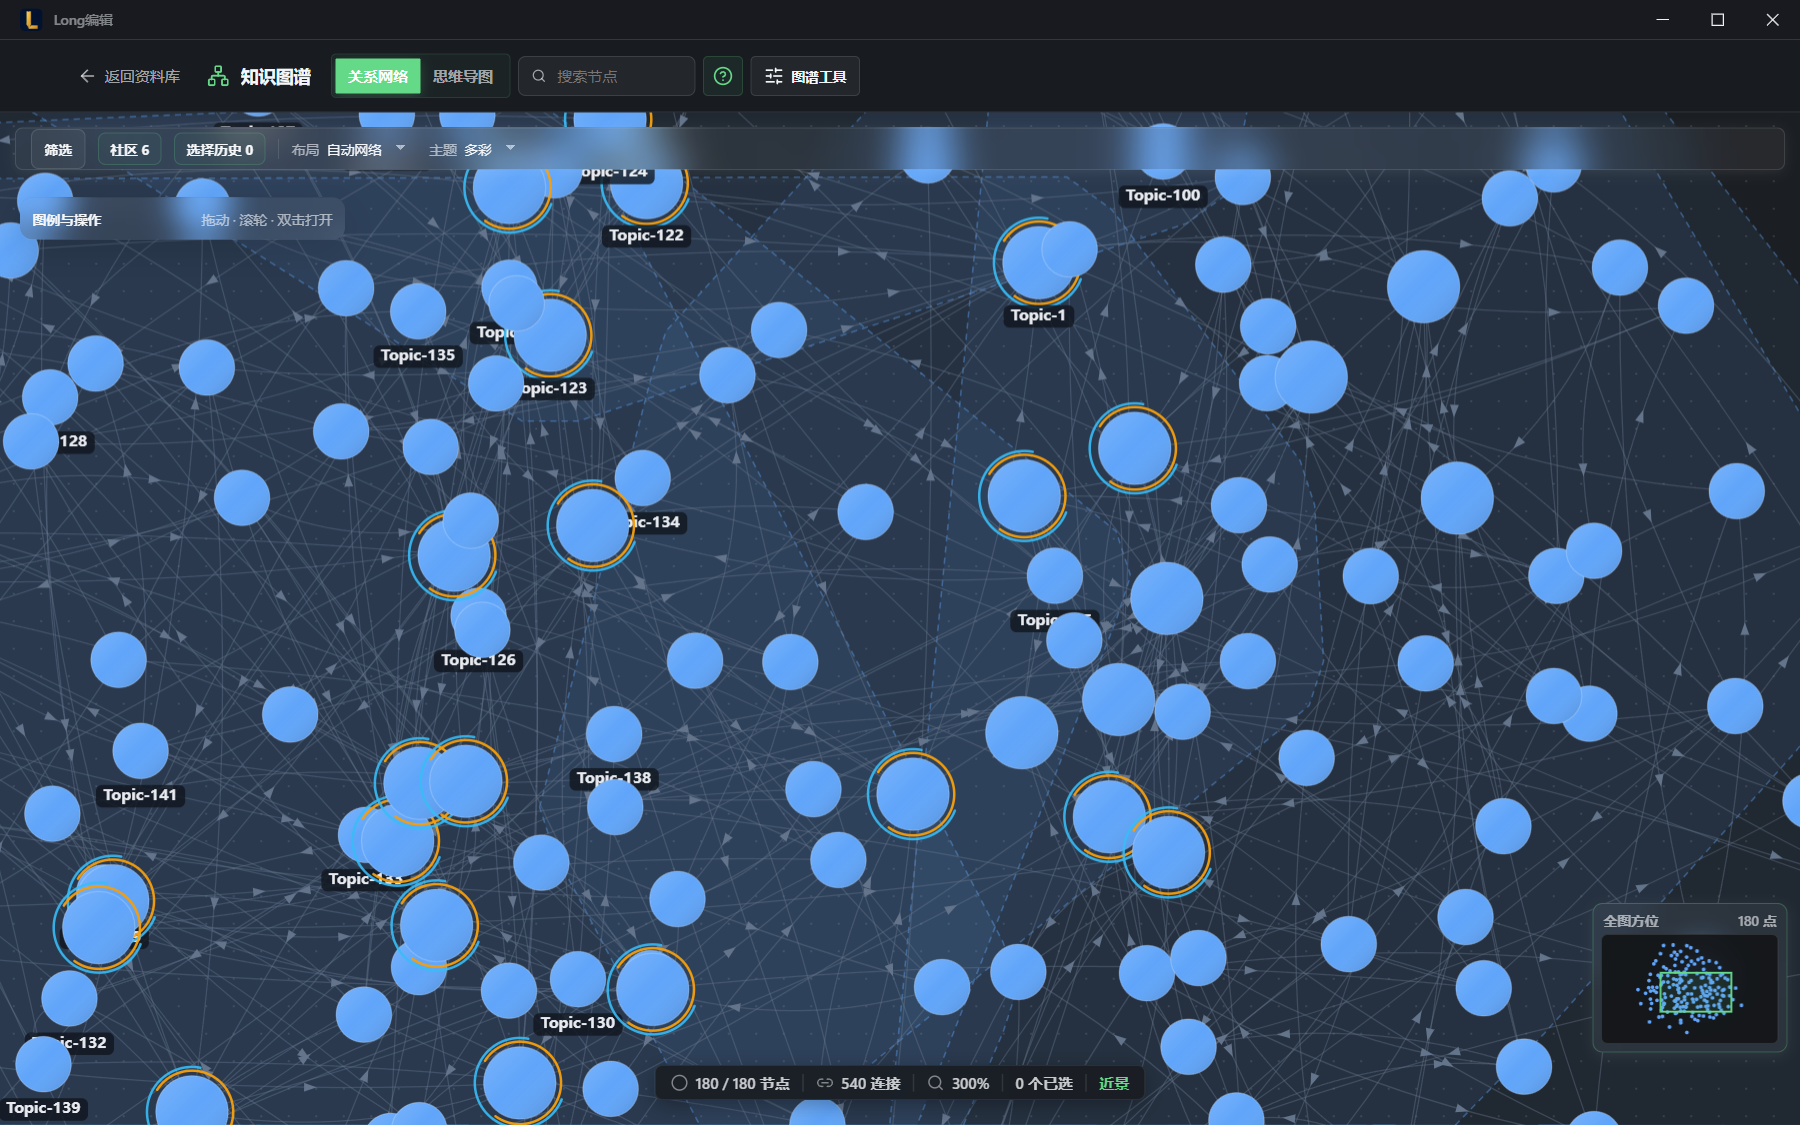
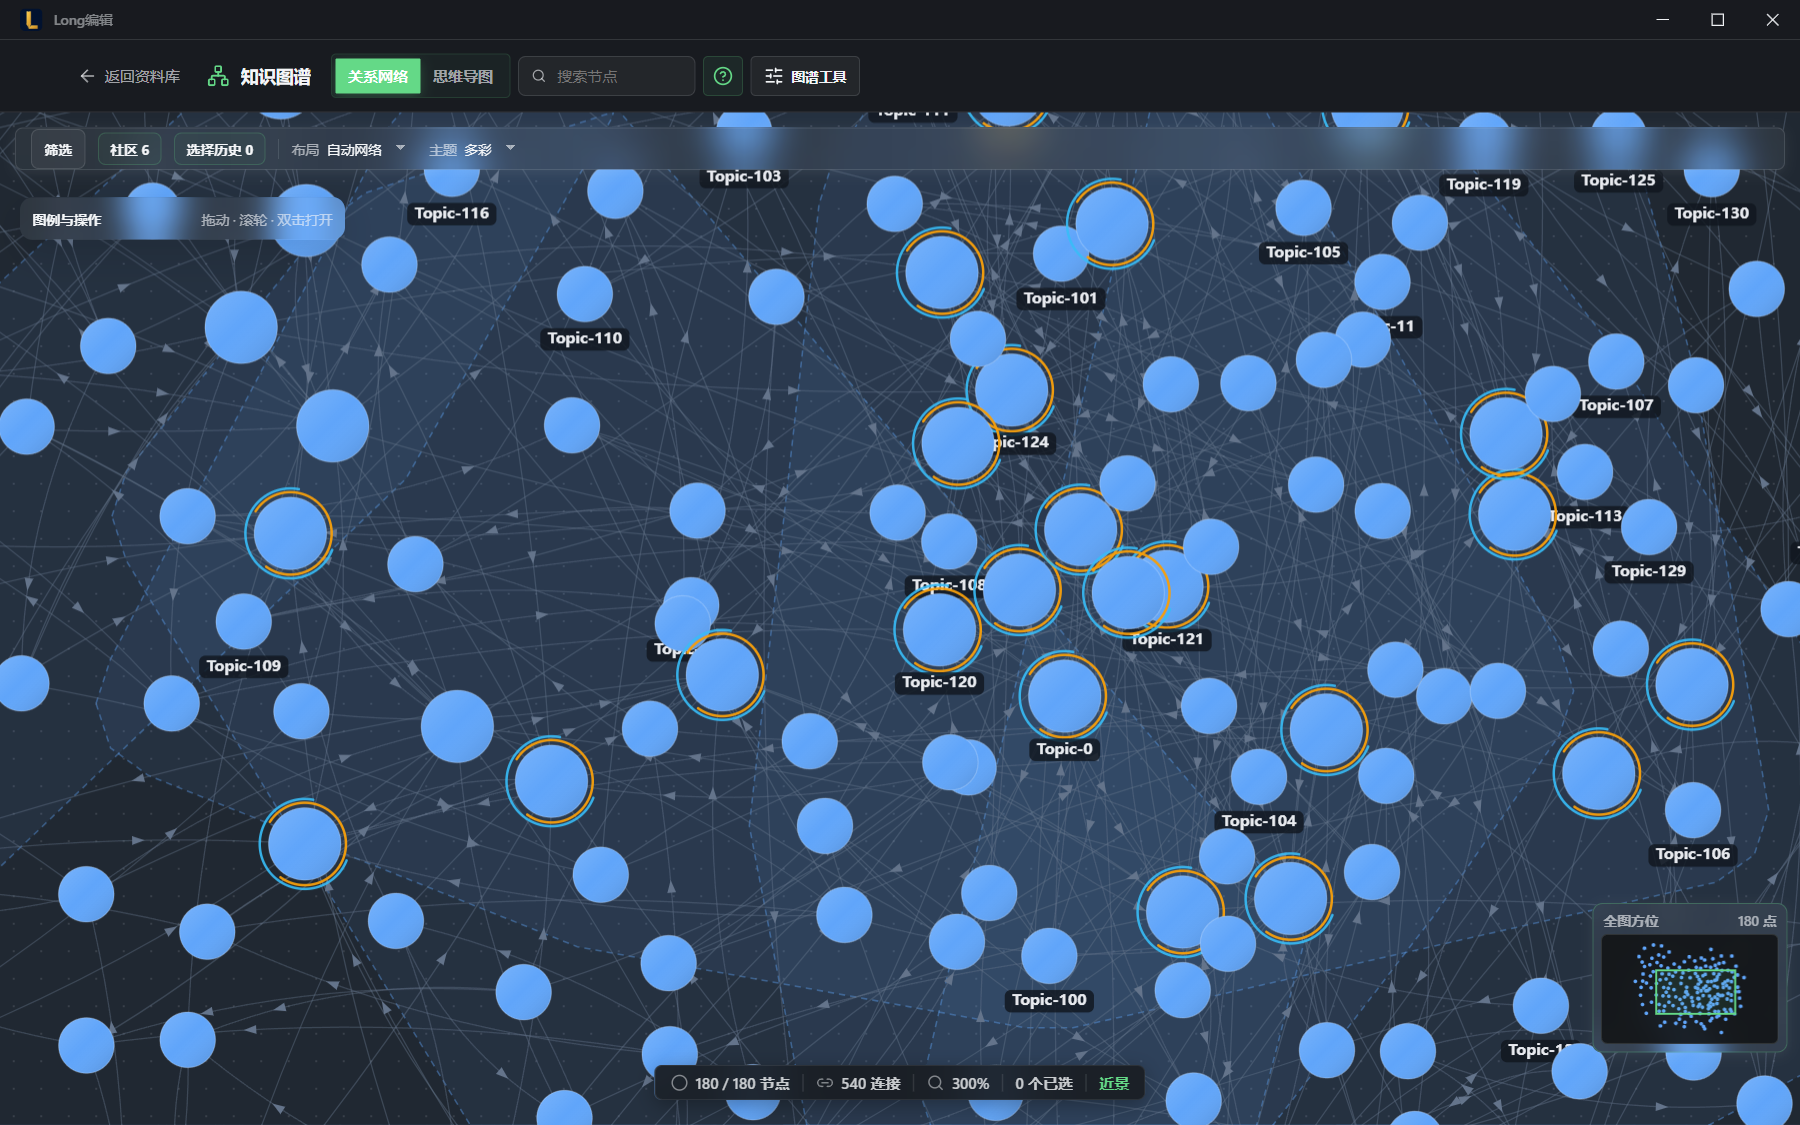
docs: record v1.0.20 cross-machine handoff

diff --git a/docs/Post_v1.0.19_M8_4_v1.0.20_Cross_Machine_Handoff_Audit_2026-09-01.md b/docs/Post_v1.0.19_M8_4_v1.0.20_Cross_Machine_Handoff_Audit_2026-09-01.md
@@ -1,0 +1,79 @@
+# M8-4 / v1.0.20 跨电脑接续审计
+
+日期：2026-09-01
+
+暂停结论：**知识图谱产品修复与 v1.0.20 原子版本迁移已完成，最终产品候选已冻结；公开发布链主动暂停，尚未构建或发布 v1.0.20。**
+
+## 1. 当前事实
+
+- 分支：`main`
+- 冻结产品候选：`654ae5aa4c08e60c9fd5b91811cc938f91e0c3c2`
+- 当前运行时/开发目标：`1.0.20`
+- 当前公开稳定版：`1.0.19`，Tag 为 `v1.0.19`
+- 发布状态：`v1.0.20-community-release-quality-gate-pending`
+- `releaseCandidate=false`；不存在 v1.0.20 Tag、GitHub Release 或对外下载附件。
+- 候选工作流：`.github/workflows/v120-candidate-lifecycle.yml`，只能接收精确 40 位候选提交，升级基线固定为 `v1.0.19`。
+
+## 2. 已完成的开发
+
+1. M8-1 修复分数 DPR 下 Canvas 尺寸抖动、pointer capture 拖动、单击选择/双击打开分离、左上角筛选与图例叠压、大量孤立节点远景噪声。
+2. M8-2 使用真实 Windows/Tauri 和用户问题对应的大资料库规模验证 540 个孤立节点场景。
+3. M8-3 完成连接图视口裁剪、`Set` 选中查找、状态环最多 24 个、屏幕恒定标签与碰撞规避、平方根近景尺寸、克制节点材质、默认零选择和统一“图谱工具”入口。
+4. M8-4 已把 package/Cargo/Tauri 及 37 项活动发布合同原子同步到 1.0.20，并把旧 M4～M7 审计合同扩展为可识别合法 M8 后继阶段；历史功能断言仍保留。
+5. README 及 v1.0.20 Release Notes 已写入“准备中”事实，尚未改成已发布下载页。
+
+关键提交：
+
+- `e8e8a795`：密集图交互稳定性与首轮可用性修复。
+- `cfc41699`：M8 真实可用性审计与接续点。
+- `db454f8d`：连接图性能、标签、节点视觉与工具入口重构。
+- `bae8f4e2`：紧凑工具栏与主题合同对齐。
+- `654ae5aa`：v1.0.20 原子版本、候选工作流、发布前文档及后继审计兼容。
+
+## 3. 最终真实观察与质量结果
+
+最终候选 `654ae5aa…` 已在 Windows/Tauri/WebView2、1440×900、DPR 1.25、暗色主题下复跑 180 节点/540 连接图：
+
+- Canvas draw 峰值：`4.5 ms`；修复前同基线为 `7.1 ms`，下降约 37%。
+- 超过 50 ms 的 Canvas draw：`0`。
+- 布局 Worker compute 峰值：`1.6 ms`；apply 峰值：`0.7 ms`。
+- 默认选中节点：`0`；运行时错误：`0`。
+- 工具弹层：248 px、13 个命令、全部单行。
+- 全图、300% 近景与工具弹层三张截图均已人工复核；证据位于 `docs/evidence/post-v119-m8-3-connected-graph-after/`。
+
+质量门实际结果：
+
+- `npm run check:current-development-audit`：完整通过。
+- `npm run build`：通过，6,276 modules transformed。
+- `cargo check --locked --manifest-path src-tauri/Cargo.toml`：通过。
+- `ci:patch-release` 中所有本地构建、静态合同、历史能力审计和 Rust 检查均通过。
+- 最后一步 `npm audit --omit=dev` 两次因 `registry.npmjs.org` 在 TLS 建连前断开而未取得审计结果；这是当前唯一未闭合的质量门，不能记录成“0 vulnerabilities”。换机后必须在网络正常环境重跑，托管候选工作流也会从固定提交重新执行完整门禁。
+
+## 4. 尚未执行的发布工作
+
+以下工作全部为待办，不能从 v1.0.19 继承证据：
+
+1. 在网络正常环境完成 `npm audit --omit=dev`，并从头通过 `npm run ci:patch-release`。
+2. 推送后以候选 `654ae5aa4c08e60c9fd5b91811cc938f91e0c3c2` 调度 `v120-candidate-lifecycle.yml`。
+3. GitHub Windows runner 构建 1.0.20 MSI/NSIS，并完成 22/22 安装生命周期、18/18 安装态检查、11/11 路由、7/7 管理回滚。
+4. 下载托管制品，冻结 ASCII 公共文件名、大小、SHA-256、`artifact-manifest.json` 和 `SHA256SUMS.txt`。
+5. 把社区发布策略推进到发布就绪；将 README/Release Notes 从“准备中”更新为真实制品事实。
+6. 创建指向冻结产品候选的 annotated `v1.0.20` Tag，发布 GitHub Release 和 MSI、NSIS、SHA256SUMS 三个附件。
+7. 从公开地址回下载三项附件并逐项复核大小与 SHA-256；随后另行观察官方 v1.0.19 → v1.0.20 应用内更新。
+
+## 5. 换机接续顺序
+
+```powershell
+git pull --ff-only origin main
+git status --short
+npm ci
+npm audit --omit=dev --registry=https://registry.npmjs.org
+npm run ci:patch-release
+gh workflow run v120-candidate-lifecycle.yml --ref main -f candidate_commit=654ae5aa4c08e60c9fd5b91811cc938f91e0c3c2
+```
+
+调度后应使用 `gh run list --workflow v120-candidate-lifecycle.yml` 获取 Run ID，并等待成功证据；失败时先保留运行日志，不得直接 Tag 或发布。候选产品提交固定为 `654ae5aa…`，后续仅文档/证据提交不得悄然替换候选代码身份。
+
+## 6. 隐私与发布边界
+
+仓库证据使用合成 Markdown 节点，不包含用户资料库正文或本地绝对路径。v1.0.20 仍为无 Authenticode 签名的社区通道，未来发布时必须保留 Windows 未知发布者提示、仅从官方 GitHub 下载以及 SHA-256 校验说明。

diff --git a/docs/Development_Alignment_and_Closure_Plan_2026-08-02.md b/docs/Development_Alignment_and_Closure_Plan_2026-08-02.md
@@ -6,6 +6,8 @@
 当前公开版本：`1.0.19`
 当前阶段：**M8-4 v1.0.20 质量门、版本迁移与发布**
 
+暂停接续说明（2026-09-01）：v1.0.20 产品候选已冻结为 `654ae5aa4c08e60c9fd5b91811cc938f91e0c3c2`，最终真实 Tauri 复跑通过；当前因换机主动停在托管发布前。公开版仍为 v1.0.19，v1.0.20 MSI/NSIS、安装生命周期、Tag 与 Release 均未执行；本地 `npm audit` 因官方端点 TLS 建连失败尚无结果。完整接续顺序见 `Post_v1.0.19_M8_4_v1.0.20_Cross_Machine_Handoff_Audit_2026-09-01.md`。
+
 `v1.0.19` 已于 2026-09-01 正式发布；Tag 精确解析到产品候选 `9655b02142b64bd8e7f1ad4056a4b9c6f0367990`，Release `379909457` 的 NSIS、MSI 与 `SHA256SUMS.txt` 已从公开地址回下载并逐项复核。托管运行 `33418123151` 又以 12/12、失败 0 验证官方 v1.0.18 → v1.0.19 应用内更新。当前公开与运行时版本均为 `1.0.19`，开发目标为 `1.0.20`；用户真实资料库截图暴露的图谱可用性问题已进入 M8 纠偏，不继承 M3B 的历史验收结论充当本轮通过证据。
 
 M1、M2、M3 与 M4A～M4D 的退出审计均已通过：薄弱格式深化、行动工作台、知识图谱语义/视觉/性能、跨格式定位/动作/转换和有界证据清理已经形成可复核闭环。M4E～M4F-6 已完成 v1.0.16 收口；M5-0～M5-9 已完成 ODP 有界编辑、质量债清零、v1.0.17 发布和官方更新观察。M6-0～M6-8 已完成图谱有界全屏、质量门、版本迁移、双安装包、WebView2、托管生命周期、最终制品冻结、公开 Release、远端复核与官方更新观察。v1.0.18 阶段剩余工作为 0；后续需另行启动 v1.0.19 范围选择审计。
@@ -48,7 +50,7 @@ M8-1 已按用户真实截图完成第一轮代码纠偏，并确认这不是新
 
 M8-2 已通过真实 Windows/Tauri 验收：1.25 DPR、1440×900、540 个孤立 Markdown 节点下保持远景，社区摘要为 0；6 次交替滚轮事件期间 backing store 属性变更为 0，实际尺寸与 CSS 视口×DPR 取整一致；中键拖动改变镜头，单击命中节点后仍停留图谱且只选择 1 个节点；筛选面板可见时图例隐藏，默认折叠操作提示仍可读；运行时错误 0、540 份合成源文件摘要不变。人工截图复核确认原先整屏大圆与双行文字已消失。当前进入 **M8-3 工具栏信息架构与连接图字体/图标视觉精修**，重点处理顶部命令密度和中近景视觉，不回滚本轮已稳定的交互与性能合同。
 
-M8-3 已通过真实 Windows/Tauri 对照：180 节点/540 连接图的 Canvas draw 峰值由 7.1 ms 降至 5.1 ms，普通进入由自动选择 1 个节点改为 0 个，状态环最多 24 个；视口裁剪、`Set` 选中查找、恒定字号与碰撞规避、平方根近景尺寸、克制节点材质均已落地。顶部命令收敛为明确的“图谱工具”入口，13 个探索/导出/布局命令在 248 px 原生弹层内全部单行；最终全图、300% 近景和工具弹层截图已人工复核，运行时错误 0。当前进入 **M8-4 v1.0.20 完整质量门、原子版本迁移、双包与公开发布**。
+M8-3 已通过真实 Windows/Tauri 对照：180 节点/540 连接图的 Canvas draw 峰值由 7.1 ms 降至最终候选复跑的 4.5 ms，普通进入由自动选择 1 个节点改为 0 个，状态环最多 24 个；视口裁剪、`Set` 选中查找、恒定字号与碰撞规避、平方根近景尺寸、克制节点材质均已落地。顶部命令收敛为明确的“图谱工具”入口，13 个探索/导出/布局命令在 248 px 原生弹层内全部单行；最终全图、300% 近景和工具弹层截图已人工复核，运行时错误 0。当前进入 **M8-4 v1.0.20 完整质量门、原子版本迁移、双包与公开发布**。
 
 ## 1. 审计结论
 

diff --git a/docs/Development_Handoff.md b/docs/Development_Handoff.md
@@ -1,6 +1,8 @@
 # Long Markdown Reader 开发交接
 
-> **2026-09-01 M8-3 知识图谱性能与视觉收口已通过：** 真实 180 节点/540 连接 Tauri 对照中 Canvas draw 峰值从 7.1 ms 降至 5.1 ms，默认选择归零，状态环最多 24 个；视口裁剪、近景尺寸、标签碰撞、节点材质和原生“图谱工具”弹层已完成。当前唯一接续点为 **M8-4 v1.0.20 质量门、版本迁移与发布**。详见 [`Post_v1.0.19_M8_3_Knowledge_Graph_Performance_and_Visual_Closure_Audit_2026-09-01.md`](./Post_v1.0.19_M8_3_Knowledge_Graph_Performance_and_Visual_Closure_Audit_2026-09-01.md)。
+> **2026-09-01 M8-4 跨电脑暂停接续点：** v1.0.20 产品候选已冻结在 `654ae5aa4c08e60c9fd5b91811cc938f91e0c3c2`；最终真实 Tauri 180 节点/540 连接复跑的 Canvas draw 峰值为 4.5 ms、运行时错误 0，三张截图已人工复核。完整本地门禁已通过至 Rust 检查，唯独 npm 官方审计端点两次 TLS 建连失败，尚未取得依赖安全结果。当前公开版仍为 v1.0.19，v1.0.20 的托管双包、安装生命周期、哈希冻结、Tag、README 晋级和 Release 均未执行。换机后严格从固定候选运行 `v120-candidate-lifecycle.yml`。详见 [`Post_v1.0.19_M8_4_v1.0.20_Cross_Machine_Handoff_Audit_2026-09-01.md`](./Post_v1.0.19_M8_4_v1.0.20_Cross_Machine_Handoff_Audit_2026-09-01.md)。
+
+> **2026-09-01 M8-3 知识图谱性能与视觉收口已通过：** 真实 180 节点/540 连接 Tauri 对照中 Canvas draw 峰值从 7.1 ms 降至最终候选复跑的 4.5 ms，默认选择归零，状态环最多 24 个；视口裁剪、近景尺寸、标签碰撞、节点材质和原生“图谱工具”弹层已完成。当前唯一接续点为 **M8-4 v1.0.20 质量门、版本迁移与发布**。详见 [`Post_v1.0.19_M8_3_Knowledge_Graph_Performance_and_Visual_Closure_Audit_2026-09-01.md`](./Post_v1.0.19_M8_3_Knowledge_Graph_Performance_and_Visual_Closure_Audit_2026-09-01.md)。
 
 > **2026-09-01 v1.0.19 M7-8 发布与更新链已全部收口：** 托管运行 `33418123151` 使用公开 v1.0.18/v1.0.19 NSIS，以 12/12、失败 0 验证用户确认、SHA-256、覆盖安装、自动重启、最新版状态及资料/配置保留；三张截图已人工复核，9 个脱敏证据文件已导入。当前公开与运行时均为 v1.0.19，下一补丁目标为 v1.0.20；后续应另行执行范围选择审计。详见 [`Post_v1.0.18_M7_8_v1.0.19_Official_Managed_Updater_Observation_Audit_2026-09-01.md`](./Post_v1.0.18_M7_8_v1.0.19_Official_Managed_Updater_Observation_Audit_2026-09-01.md)。
 

diff --git a/docs/Post_v1.0.19_M8_3_Knowledge_Graph_Performance_and_Visual_Closure_Audit_2026-09-01.md b/docs/Post_v1.0.19_M8_3_Knowledge_Graph_Performance_and_Visual_Closure_Audit_2026-09-01.md
@@ -23,23 +23,23 @@
 
 | 指标 | 修复前 | 修复后 |
 | --- | ---: | ---: |
-| Canvas draw 峰值 | 7.1 ms | 5.1 ms |
+| Canvas draw 峰值 | 7.1 ms | 4.5 ms |
 | 超过 50 ms 的绘制 | 0 | 0 |
 | 进入图谱自动选择 | 1 个节点 | 0 个节点 |
 | 新近/强关系状态环 | 180 个资格节点均参与视觉竞争 | 最多 24 个 |
 | 工具菜单 | 顶部多项并排、信息过载 | 1 个入口、13 个单行命令 |
 | 运行时错误 | 0 | 0 |
 
-峰值下降约 28%；多次复跑观察到 4.4～5.1 ms，均低于同一基线的 7.1 ms。工具弹层实测宽 248 px、高约 253 px，最大按钮高度 32 px，13 个标签全部保持单行。最终截图人工复核确认入口可见、弹层不遮挡默认画布、全图可适配视口、300% 近景仍可辨认节点与标签。
+最终候选复跑的峰值下降约 37%；此前多次复跑观察到 4.4～5.1 ms，均低于同一基线的 7.1 ms。工具弹层实测宽 248 px、高约 253 px，最大按钮高度 32 px，13 个标签全部保持单行。最终截图人工复核确认入口可见、弹层不遮挡默认画布、全图可适配视口、300% 近景仍可辨认节点与标签。
 
 ## 证据与回归
 
 - 修复前：`docs/evidence/post-v119-m8-3-connected-graph-before/`
 - 修复后：`docs/evidence/post-v119-m8-3-connected-graph-after/`
-- 修复后证据绑定产品与合同提交：`bae8f4e262b6a4b76cae2b2049704bf282f579b8`
+- 最终候选证据绑定提交：`654ae5aa4c08e60c9fd5b91811cc938f91e0c3c2`
 - `npm run build`：通过，6,276 modules。
 - `check:m8-1-graph-usability`、`check:ux37b-knowledge-graph-canvas`、M3B-11 状态环回归：通过。
-- 完整 `ci:patch-release` 首次暴露主题合同仍匹配被替换的旧紧凑实现；合同已纠偏为验证“普通网络不强制初始详情”和新的原生工具结构，需在版本迁移前从头复跑。
+- 完整 `ci:patch-release` 的构建、静态/历史合同、Rust `cargo check --locked` 均已通过；最终 `npm audit` 两次因 npm 官方 TLS 端点在建连前断开而未取得结果，固定候选的 GitHub 托管门仍必须重新执行该外部审计。
 
 ## 发布边界
 
